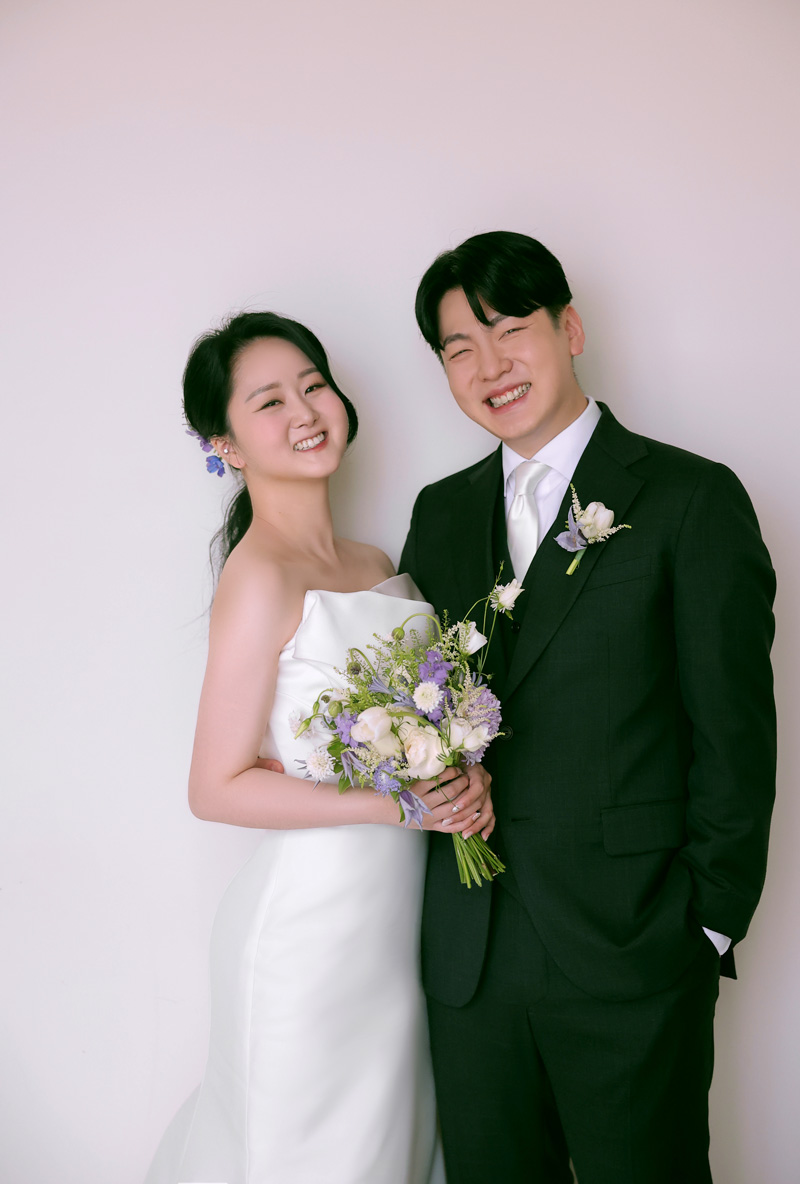
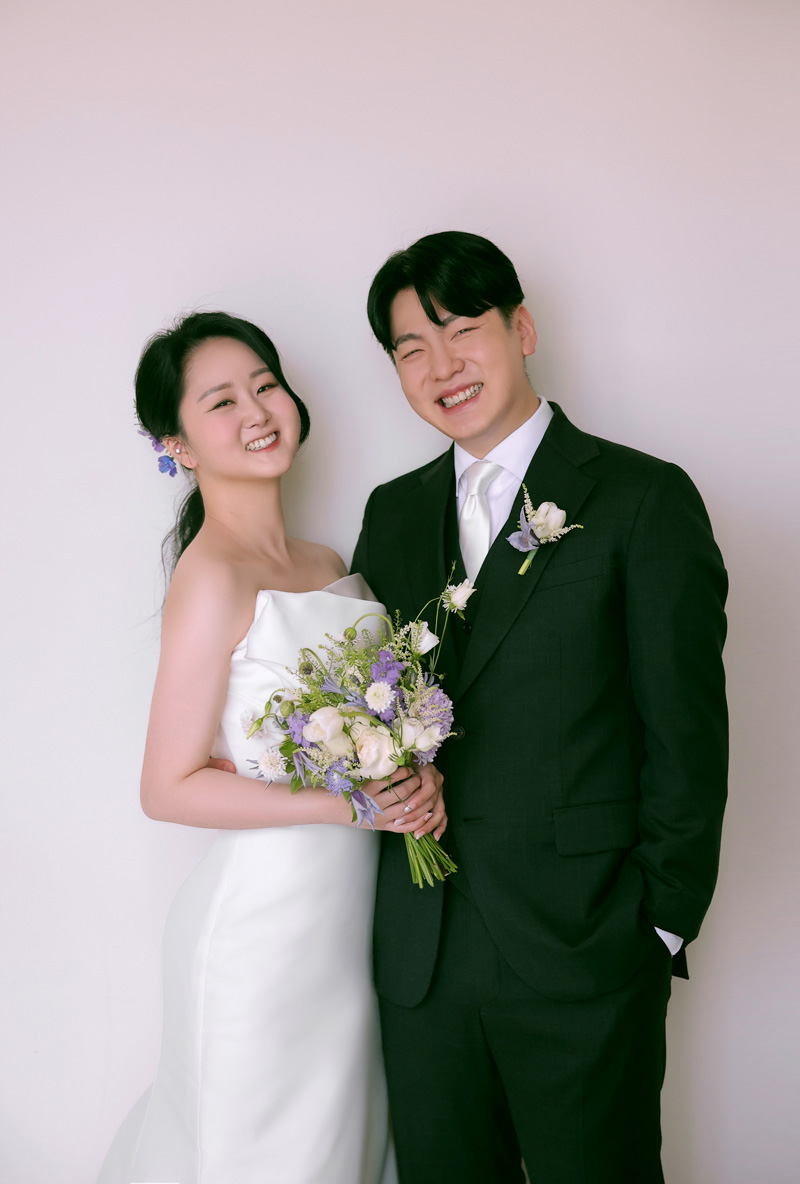
update for 썸네일수정, 사진변경

Changed region(s): [[0.1562, 0.1875, 0.9688, 1.0], [0.8125, 0.5, 0.8438, 0.5312], [0.75, 0.7188, 0.7812, 0.75]]

diff --git a/index.html b/index.html
@@ -201,7 +201,7 @@
                                 </div>
                             </div>
 
-                            <div class="gallery-item">
+                            <!-- <div class="gallery-item">
                                 <div>
                                     <a href="https://yoonena.github.io/wedding/common/image/wedding_14.jpg" class="thumbnail">
                                         <span>
@@ -209,7 +209,7 @@
                                         </span>
                                     </a>
                                 </div>
-                            </div>
+                            </div> -->
 
                             <div class="gallery-item">
                                 <div>
